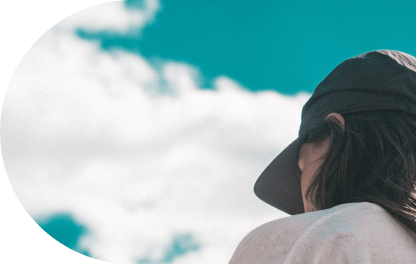
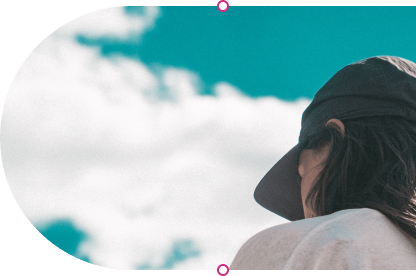
Fix LiB and newsletter intro design (#66594)
* Fix LiB and newsletter intro design

* Add correct newsletter backgrond image

diff --git a/client/landing/stepper/declarative-flow/internals/steps-repository/intro/styles.scss b/client/landing/stepper/declarative-flow/internals/steps-repository/intro/styles.scss
@@ -6,19 +6,15 @@
 		background-color: rgb( 162, 218, 254 );
 		background-image: url( 'calypso/assets/images/onboarding/newsletter-processing-left.png' ),
 		url( 'calypso/assets/images/onboarding/newsletter-intro-right.png' );
-		background-position: -45px bottom, right 90px;
 		background-repeat: no-repeat, no-repeat;
 		background-attachment: fixed;
-
-		background-size: auto 25%, auto 35%;
-
-		@include break-medium {
-			background-size: auto 50%, auto 70%;
-			background-position: -90px bottom, right 124px;
-		}
+    	background-position-x: 0%, 100%;
+    	background-position-y: 100%, 100px;
+    	background-size: auto 30%, auto 50%;
 
 		@include break-large {
-			background-size: auto 60%, auto 85%;
+			background-size: auto 55%, auto 80%;
+			background-position-y: 100%, 136px;
 		}
 	}
 
@@ -90,17 +86,19 @@
 		transform: translateY( -50% );
 	}
 
+
 	.intro__title {
 		@include onboarding-font-recoleta;
-		font-size: $font-title-medium;
+		/* stylelint-disable-next-line scales/font-size, declaration-property-unit-allowed-list */
+		font-size: 28px;
+		line-height: 130%;
+		padding-bottom: 32px;
 
-		@include break-medium {
-				font-size: $font-title-large;
+		@include break-large {
+			/* stylelint-disable-next-line scales/font-size, declaration-property-unit-allowed-list */
+			font-size: 44px;
+			line-height: 52px;
 		}
-		font-weight: 500;
-		line-height: 40px;
-		padding-bottom: 40px;
-
 		span {
 			display: block;
 		}
